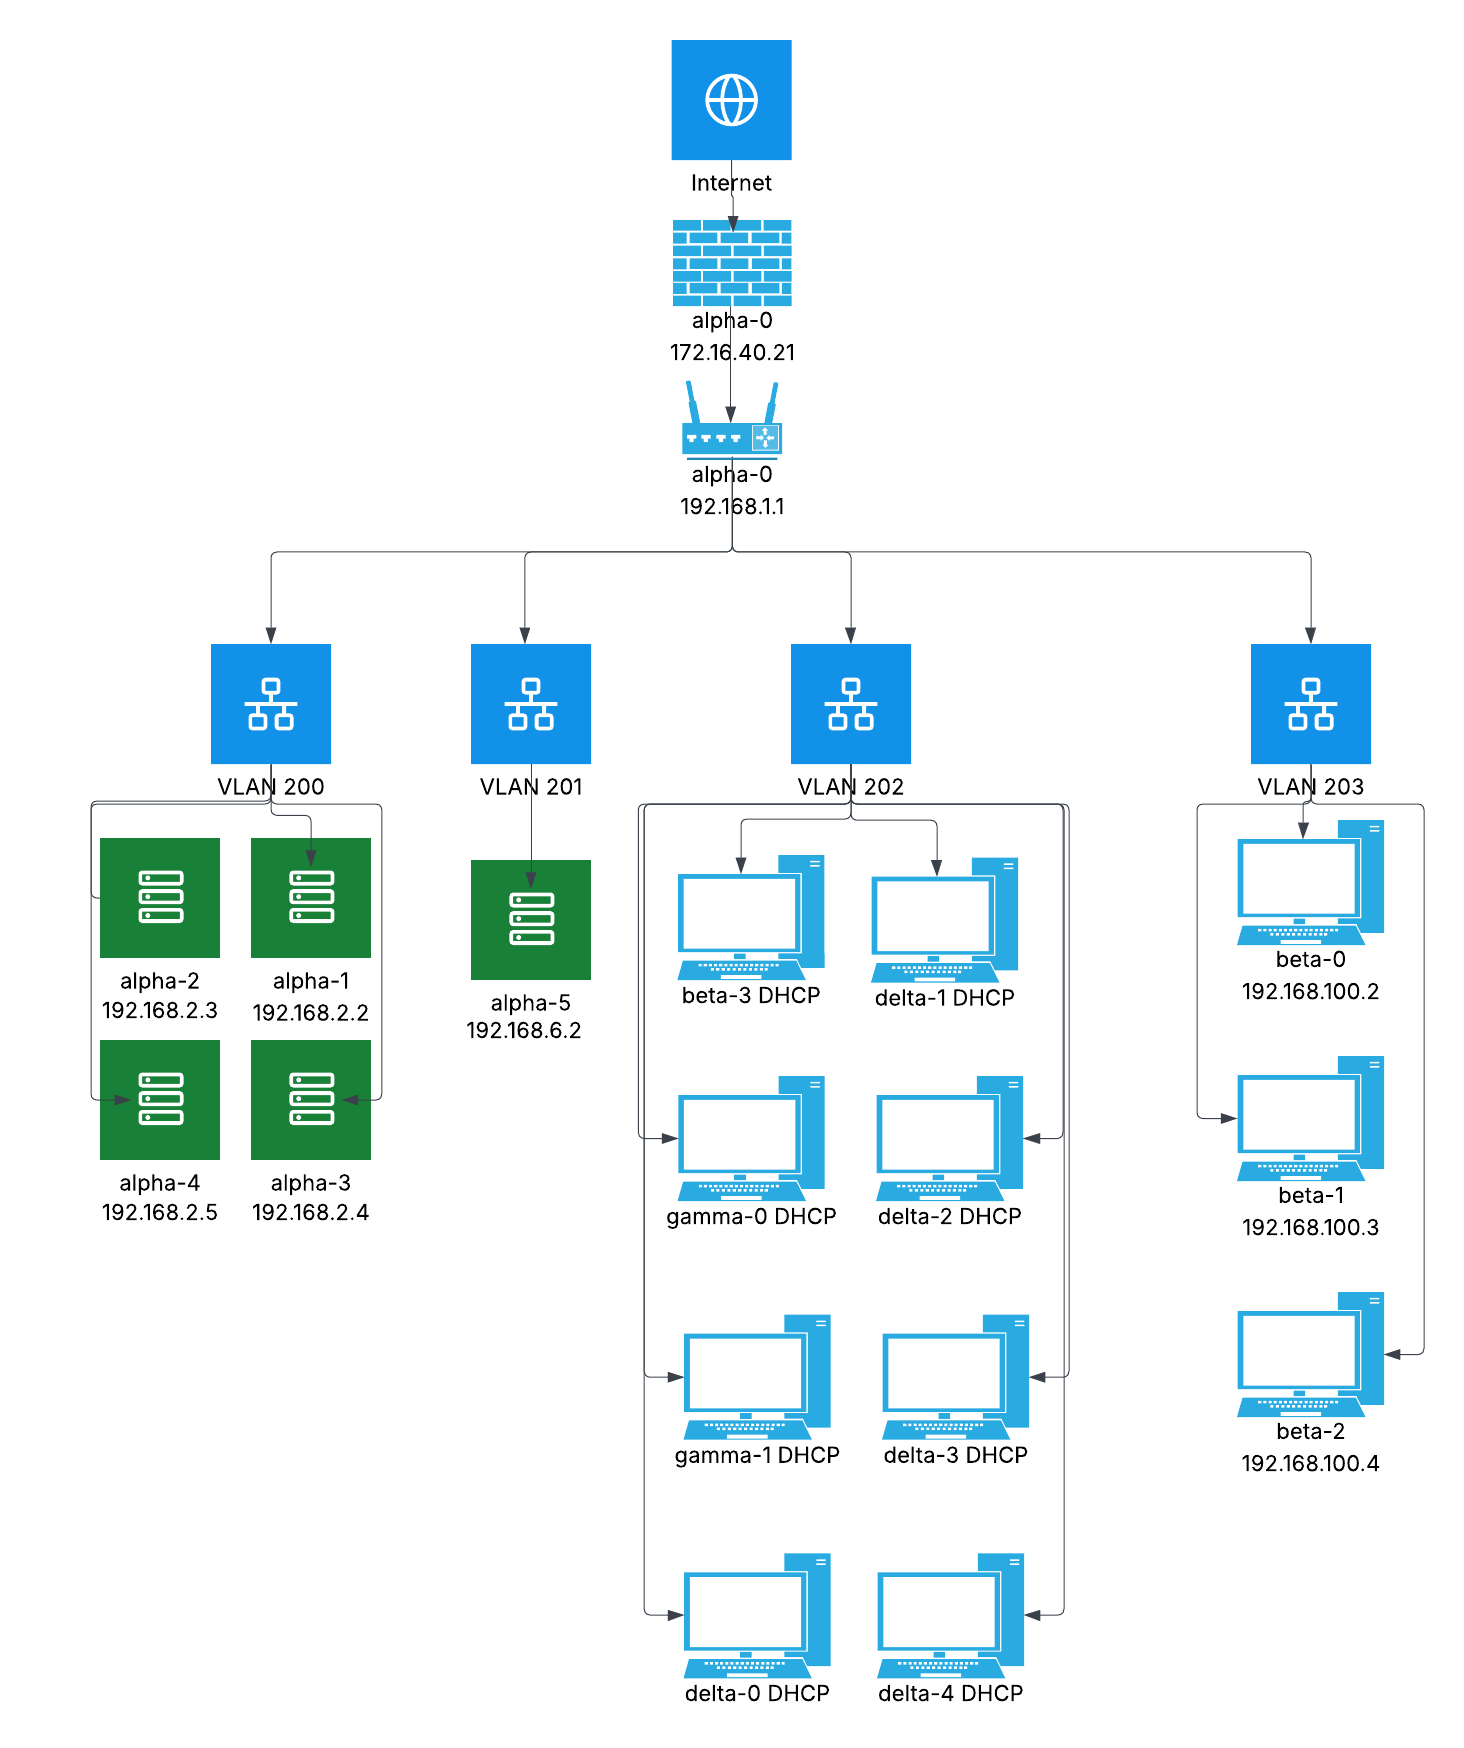
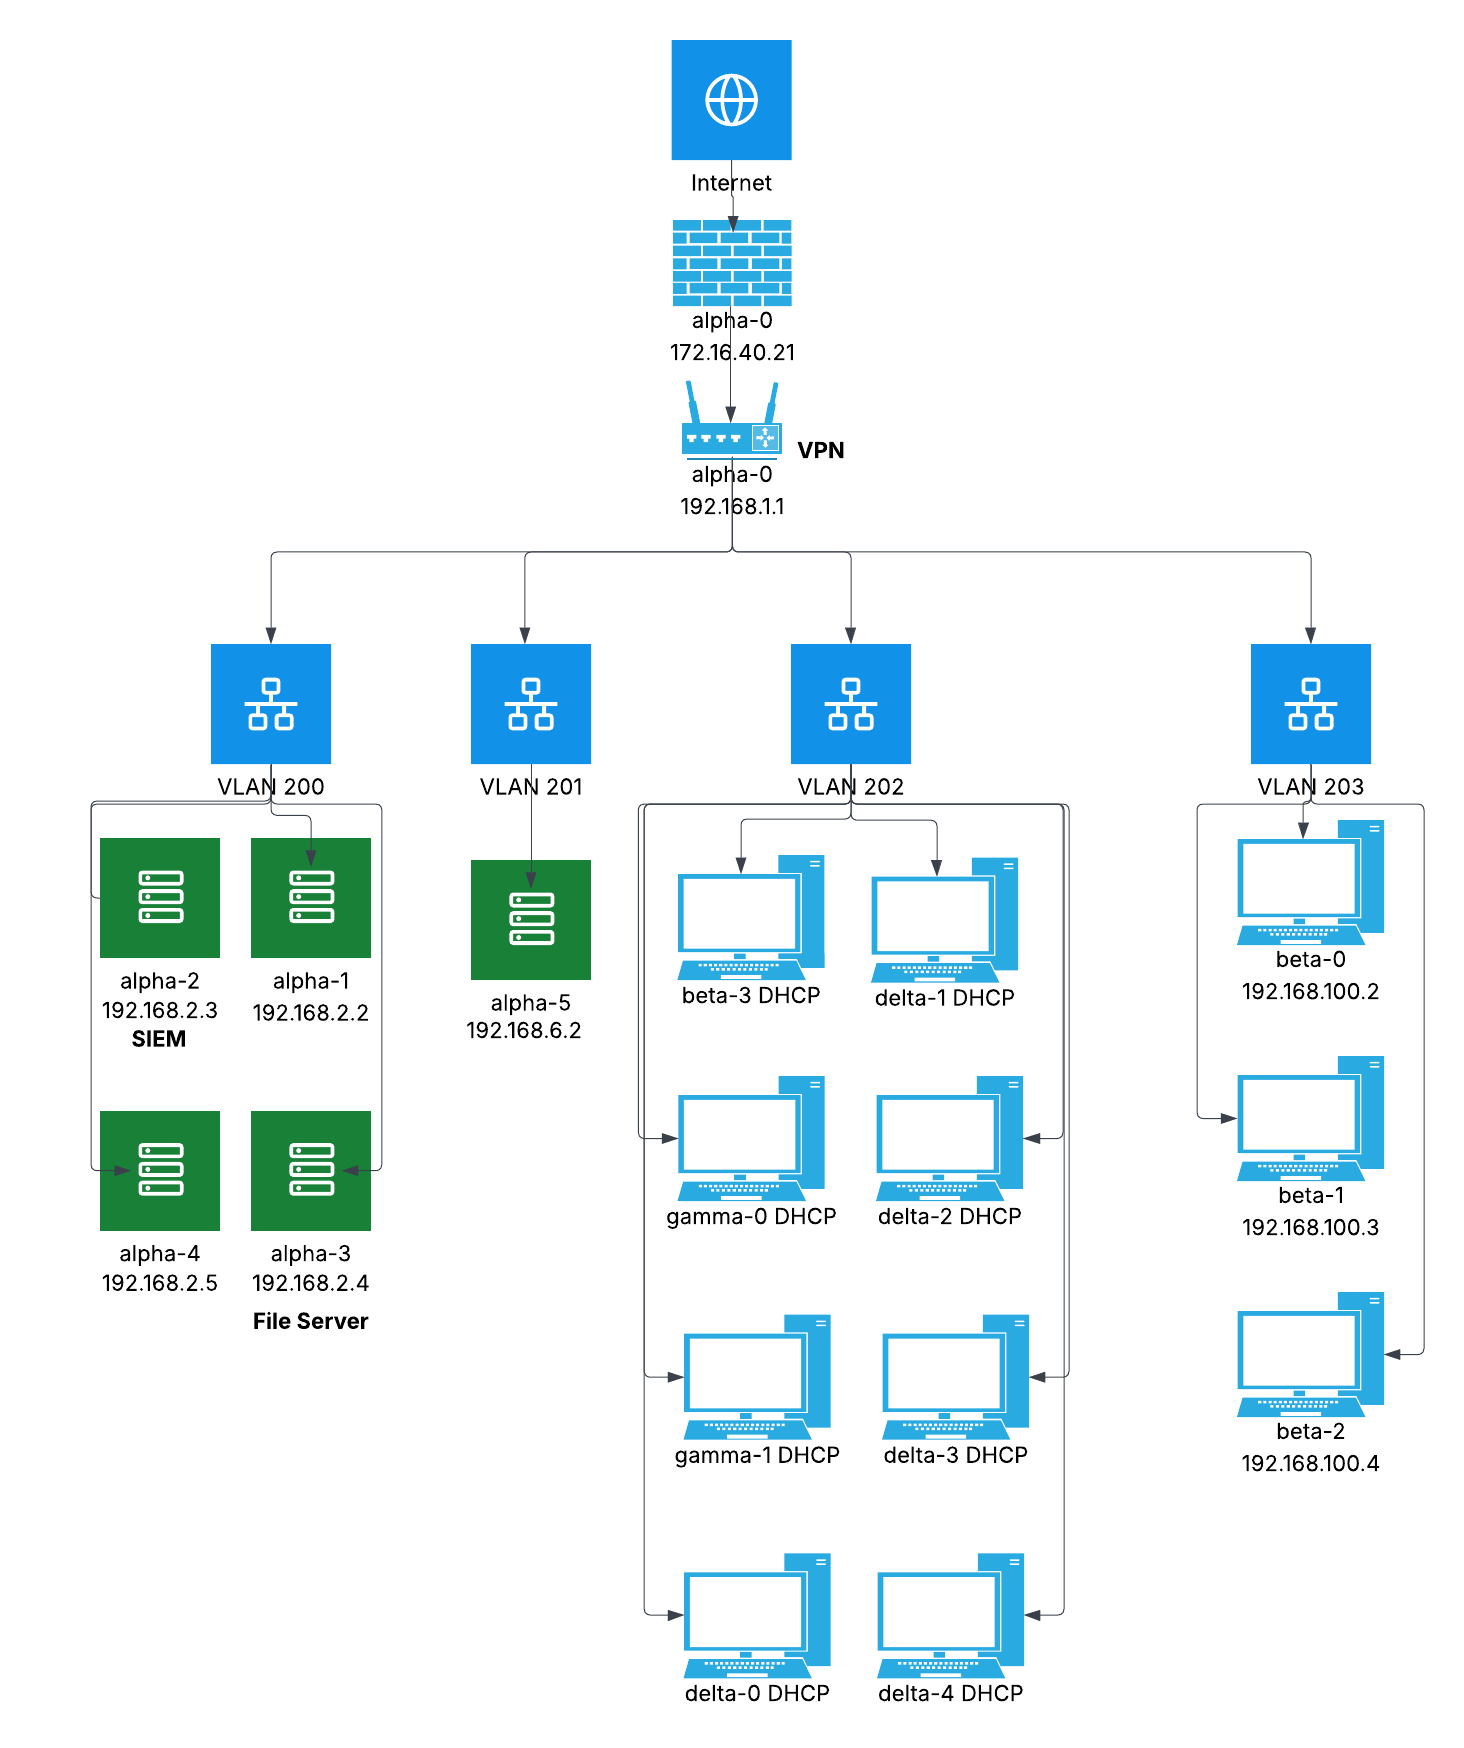
updated network digrams

Changed region(s): [[0.0615, 0.587, 0.2766, 0.7723], [0.5533, 0.2471, 0.584, 0.278]]

diff --git a/milestone4/milestone4.md b/milestone4/milestone4.md
@@ -95,3 +95,20 @@ We decided to use Wazuh as our SIEM and Endpoint Detection software. Because the
 * File Server
 * SIEM
 * Endpoint Protection
+
+## Security Policies: Update documentation to reflect changes in policies from this milestone:
+Password & access control.
+VPN access restrictions.
+Endpoint protection enforcement.
+File server permissions.
+
+## Network Diagrams
+Physical network diagram
+![physical network diagram](physical_network.png)
+Logical network diagram
+![logical network diagram](logical_network.png)
+
+
+## Backup & Recovery Procedures: Include instructions for restoring file server and metric server configurations.
+
+## Change Log: Track all updates to Group Policies, firewall rules, and system configurations.
